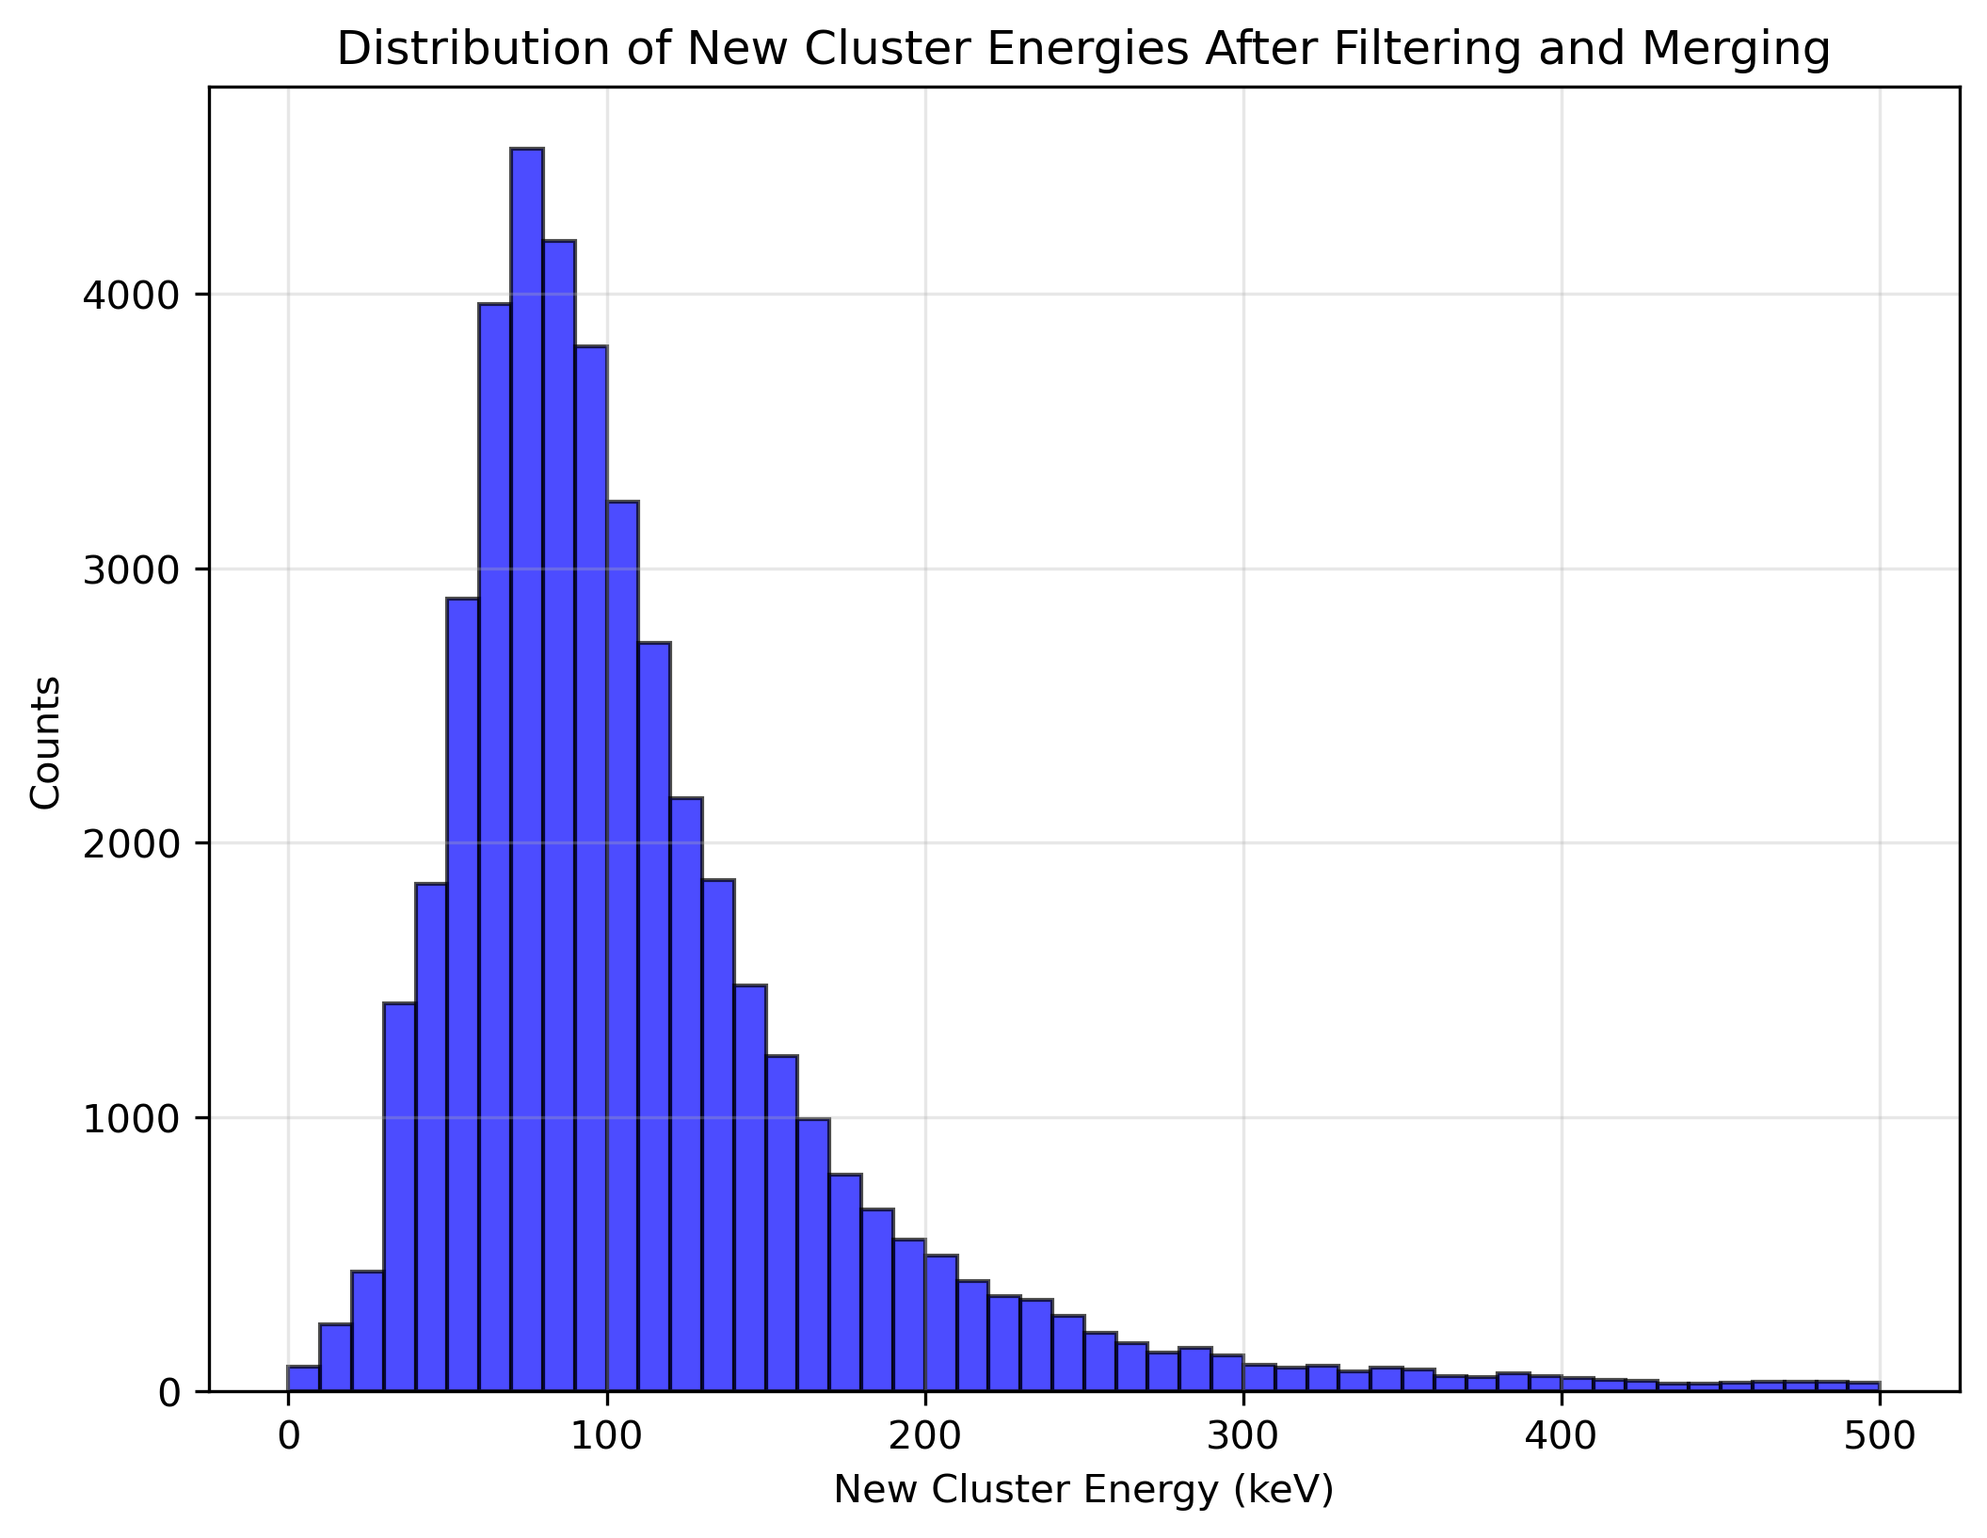
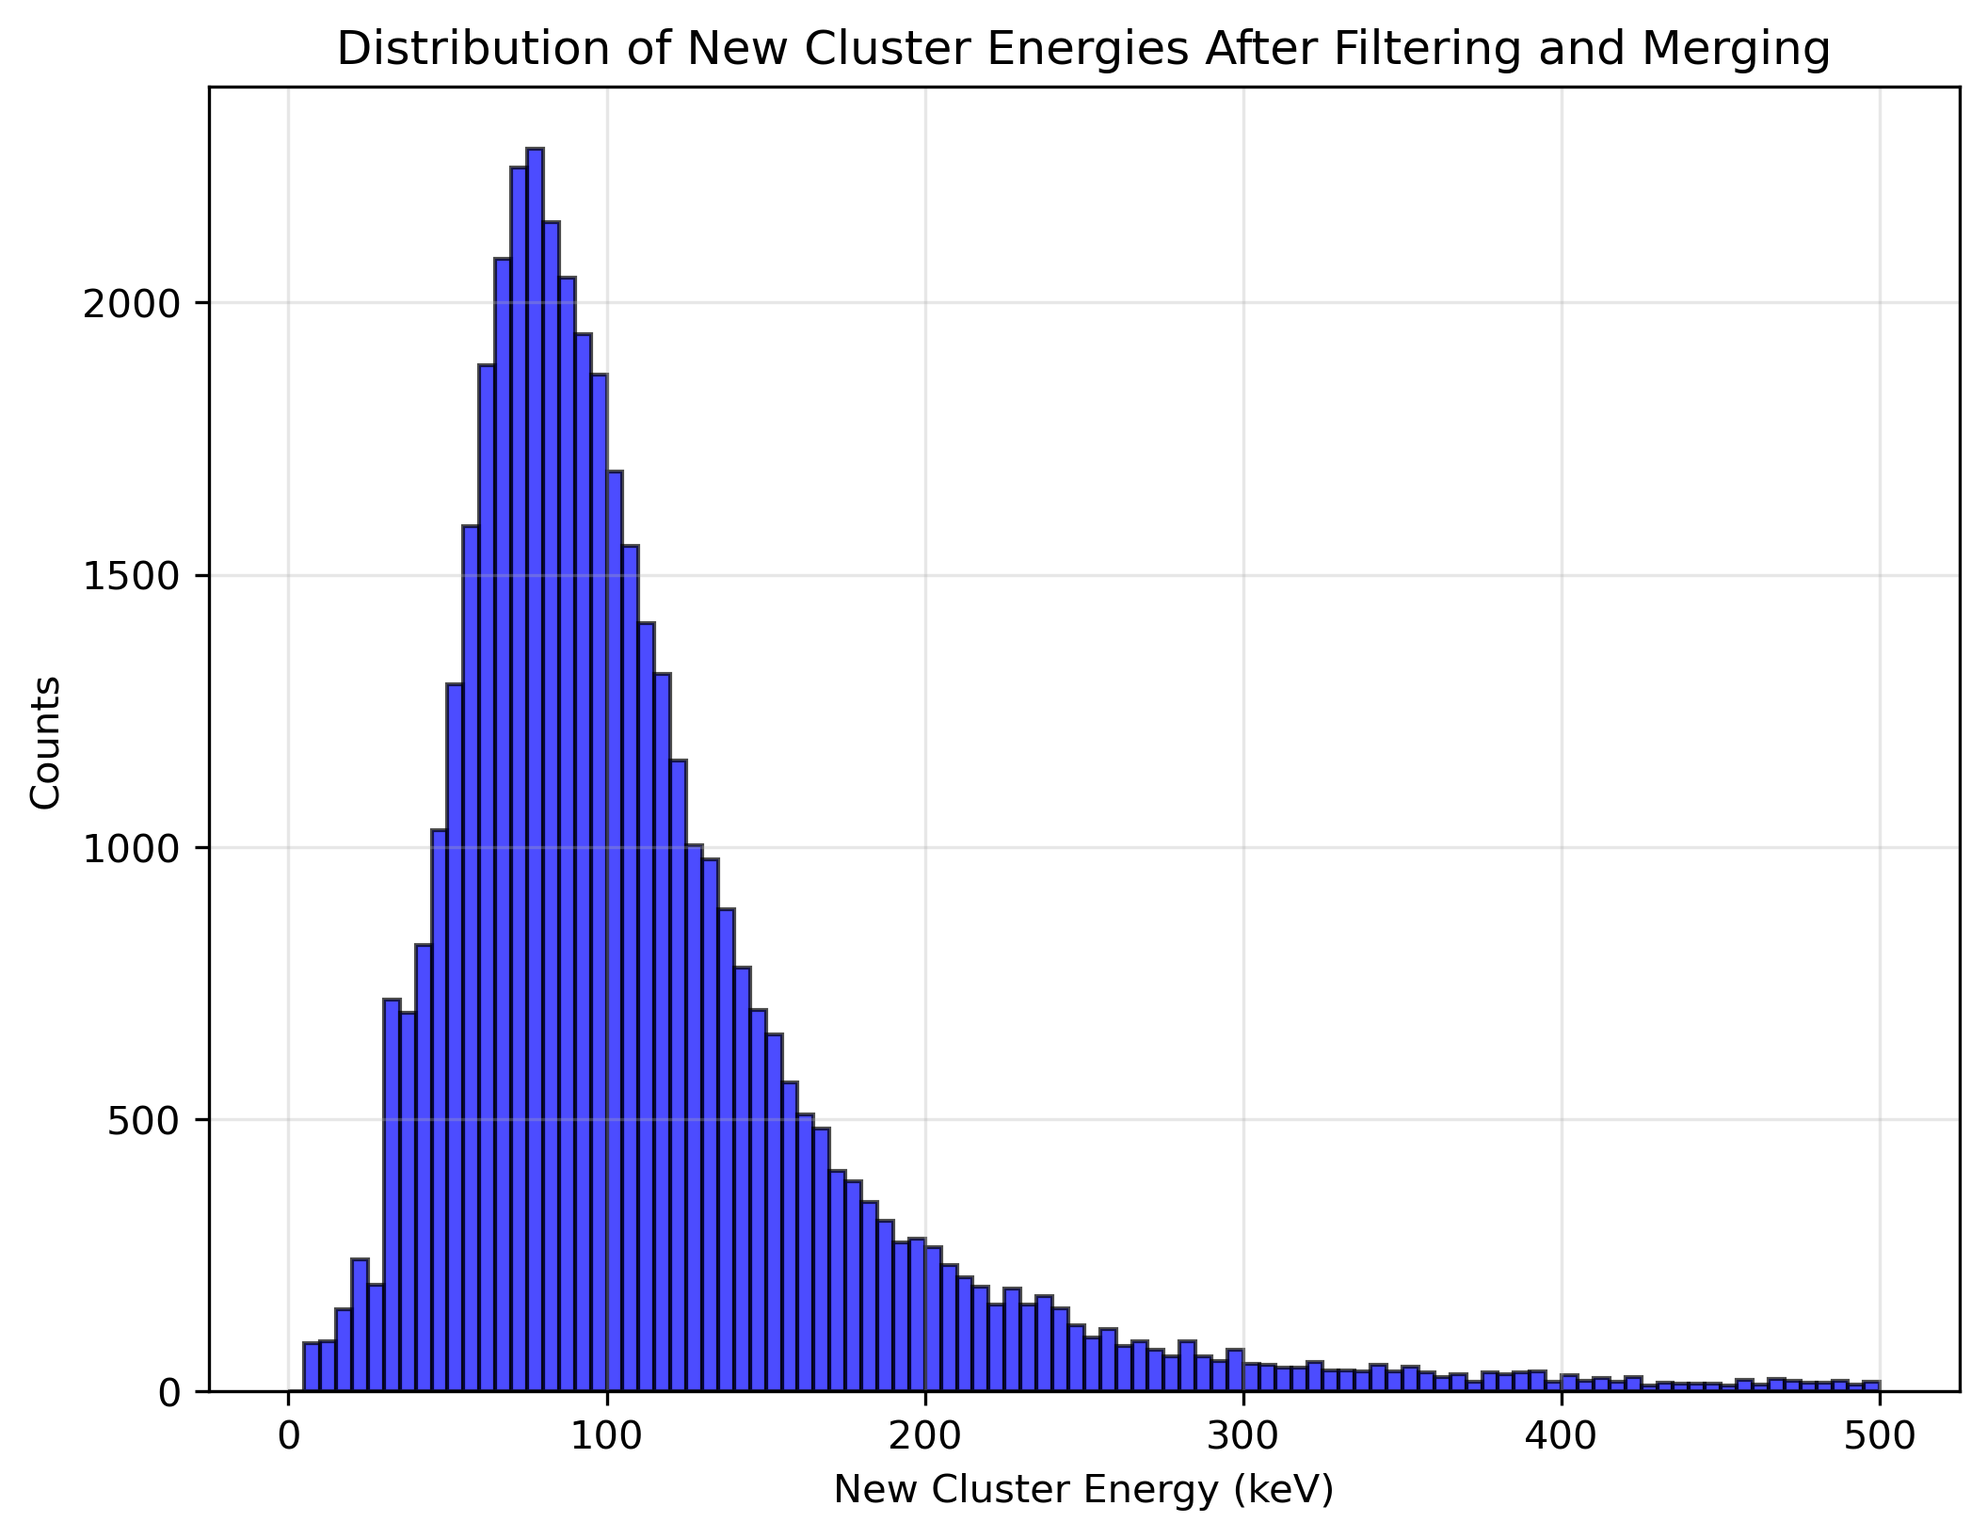
Update new_remove_flu__and_save_root.py, new judgement and can save new root files.

diff --git a/new_remove_flu__and_save_root.py b/new_remove_flu__and_save_root.py
@@ -1,0 +1,277 @@
+import uproot
+import awkward as ak
+import numpy as np
+import matplotlib.pyplot as plt
+
+def analyze_and_save_root(input_root_file, output_root_file):
+    # 读取ROOT树
+    with uproot.open(input_root_file) as file:
+        tree = file["Tree"]
+        
+        # 提取所有数据（jagged arrays for clusters/cells, regular for events）
+        event_id = tree["event_id"].array()
+        event_time = tree["event_time"].array()
+        
+        # Cluster级
+        cluster_index = tree["cluster_index"].array()
+        cluster_n_cells = tree["cluster_n_cells"].array()
+        cluster_energy = tree["cluster_energy"].array()
+        cluster_weighted_x = tree["cluster_weighted_x"].array()
+        cluster_weighted_y = tree["cluster_weighted_y"].array()
+        cluster_avg_t = tree["cluster_avg_t"].array()
+        
+        # Cell级
+        cell_x = tree["cell_x"].array()
+        cell_y = tree["cell_y"].array()
+        cell_E = tree["cell_E"].array()
+        cell_T = tree["cell_T"].array()
+        cell_cluster_id = tree["cell_cluster_id"].array()
+        
+        # 事件总数
+        n_events = len(event_id)
+        print(f"总事件数: {n_events}")
+        
+        discarded_events = 0  # 抛弃事件计数
+        merged_clusters = 0   # 合并次数
+        new_energies = []     # 收集新的cluster_energy
+        
+        # 新数据存储：每个event的列表
+        new_event_ids = []
+        new_event_times = []
+        new_cluster_indices = []
+        new_cluster_n_cells = []
+        new_cluster_energies = []
+        new_cluster_weighted_xs = []
+        new_cluster_weighted_ys = []
+        new_cluster_avg_ts = []
+        new_cell_xs = []
+        new_cell_ys = []
+        new_cell_Es = []
+        new_cell_Ts = []
+        new_cell_cluster_ids = []
+        
+        for i in range(n_events):
+            n_clusters = len(cluster_energy[i])
+            # 修正：event_id 和 event_time 是标量
+            curr_event_id = int(event_id[i])
+            curr_event_time = float(event_time[i])
+            
+            # 提取当前event的cell数据（扁平numpy）
+            curr_cell_x = ak.to_numpy(cell_x[i])
+            curr_cell_y = ak.to_numpy(cell_y[i])
+            curr_cell_E = ak.to_numpy(cell_E[i])
+            curr_cell_T = ak.to_numpy(cell_T[i])
+            curr_cell_cluster_id = ak.to_numpy(cell_cluster_id[i]).copy()  # copy 以允许修改
+            
+            if n_clusters == 1:
+                # 单cluster事件：检查抛弃条件
+                if cluster_n_cells[i][0] <= 2 and cluster_energy[i][0] < 30:
+                    discarded_events += 1
+                    continue
+                else:
+                    # 保留该event的所有数据
+                    new_event_ids.append(curr_event_id)
+                    new_event_times.append(curr_event_time)
+                    new_cluster_indices.append(ak.to_numpy(cluster_index[i]))
+                    new_cluster_n_cells.append(ak.to_numpy(cluster_n_cells[i]))
+                    new_cluster_energies.append(ak.to_numpy(cluster_energy[i]))
+                    new_cluster_weighted_xs.append(ak.to_numpy(cluster_weighted_x[i]))
+                    new_cluster_weighted_ys.append(ak.to_numpy(cluster_weighted_y[i]))
+                    new_cluster_avg_ts.append(ak.to_numpy(cluster_avg_t[i]))
+                    new_cell_xs.append(curr_cell_x)
+                    new_cell_ys.append(curr_cell_y)
+                    new_cell_Es.append(curr_cell_E)
+                    new_cell_Ts.append(curr_cell_T)
+                    new_cell_cluster_ids.append(ak.to_numpy(cell_cluster_id[i]))  # 未修改
+                    new_energies.extend(ak.to_numpy(cluster_energy[i]))
+            elif n_clusters >= 2:
+                # 多cluster事件：提取为NumPy
+                energies_np = ak.to_numpy(cluster_energy[i])
+                n_cells_np = ak.to_numpy(cluster_n_cells[i])
+                index_np = ak.to_numpy(cluster_index[i])
+                x_np = ak.to_numpy(cluster_weighted_x[i])
+                y_np = ak.to_numpy(cluster_weighted_y[i])
+                t_np = ak.to_numpy(cluster_avg_t[i])
+                
+                n_clusters = len(energies_np)
+                
+                # 找出所有低能量小cluster：energy <30 且 n_cells <=2
+                low_condition = (energies_np < 30) & (n_cells_np <= 2)
+                low_idxs = np.where(low_condition)[0]
+                
+                to_delete = []
+                if len(low_idxs) > 0:
+                    # 目标cluster：不满足低能量条件的
+                    target_mask = ~low_condition
+                    target_idxs = np.where(target_mask)[0]
+                    if len(target_idxs) > 0:
+                        # 对于每个低能量cluster，尝试合并到最近目标
+                        merged_count = 0
+                        for low_idx in low_idxs:
+                            low_energy = energies_np[low_idx]
+                            low_n_cells = n_cells_np[low_idx]
+                            low_x = x_np[low_idx]
+                            low_y = y_np[low_idx]
+                            low_t = t_np[low_idx]
+                            low_id = index_np[low_idx]
+                            
+                            # 收集低能量cluster的cells
+                            low_cells_mask = (curr_cell_cluster_id == low_id)
+                            low_cell_xs = curr_cell_x[low_cells_mask]
+                            low_cell_ys = curr_cell_y[low_cells_mask]
+                            low_cell_Es = curr_cell_E[low_cells_mask]
+                            low_cell_Ts = curr_cell_T[low_cells_mask]
+                            
+                            # 其他目标cluster的差异
+                            other_t = t_np[target_idxs]
+                            other_x = x_np[target_idxs]
+                            other_y = y_np[target_idxs]
+                            other_indices = index_np[target_idxs]
+                            
+                            dt_diffs = np.abs(other_t - low_t)
+                            dx_diffs = np.abs(other_x - low_x)
+                            dy_diffs = np.abs(other_y - low_y)
+                            
+                            # 候选掩码
+                            candidate_mask = (dx_diffs <= 10) & (dy_diffs <= 10)
+                            candidates_rel_mask = candidate_mask
+                            candidates = target_idxs[candidate_mask]
+                            
+                            if len(candidates) > 0:
+                                # 选dt最小的
+                                filtered_dt = dt_diffs[candidate_mask]
+                                best_rel_idx = np.argmin(filtered_dt)
+                                best_idx = candidates[best_rel_idx]
+                                best_target_index = other_indices[best_rel_idx]
+                                
+                                # 找到目标cluster的cells（当前状态，包括之前合并）
+                                target_cells_mask = (curr_cell_cluster_id == best_target_index)
+                                target_cell_xs = curr_cell_x[target_cells_mask]
+                                target_cell_ys = curr_cell_y[target_cells_mask]
+                                target_cell_Es = curr_cell_E[target_cells_mask]
+                                target_cell_Ts = curr_cell_T[target_cells_mask]
+                                
+                                # 合并cells
+                                merged_cell_xs = np.concatenate([target_cell_xs, low_cell_xs])
+                                merged_cell_ys = np.concatenate([target_cell_ys, low_cell_ys])
+                                merged_cell_Es = np.concatenate([target_cell_Es, low_cell_Es])
+                                merged_cell_Ts = np.concatenate([target_cell_Ts, low_cell_Ts])
+                                
+                                # 重新计算目标cluster属性
+                                total_e = np.sum(merged_cell_Es)
+                                if len(merged_cell_Es) > 0:
+                                    new_weighted_x = np.sum(merged_cell_xs * merged_cell_Es) / total_e
+                                    new_weighted_y = np.sum(merged_cell_ys * merged_cell_Es) / total_e
+                                    new_avg_t = np.mean(merged_cell_Ts)
+                                    new_n_cells = len(merged_cell_Es)
+                                else:
+                                    new_weighted_x, new_weighted_y, new_avg_t, new_n_cells = low_x, low_y, low_t, low_n_cells
+                                
+                                # 更新目标cluster在np中的值
+                                energies_np[best_idx] = total_e
+                                n_cells_np[best_idx] = new_n_cells
+                                x_np[best_idx] = new_weighted_x
+                                y_np[best_idx] = new_weighted_y
+                                t_np[best_idx] = new_avg_t
+                                
+                                # 更新cell_cluster_id：低能量cells改为目标index（old id）
+                                curr_cell_cluster_id[low_cells_mask] = best_target_index
+                                
+                                to_delete.append(low_idx)
+                                merged_count += 1
+                        
+                        merged_clusters += merged_count
+                
+                # 删除已合并的low_idxs（排序逆序删除）
+                if len(to_delete) > 0:
+                    to_delete = sorted(to_delete, reverse=True)
+                    for del_idx in to_delete:
+                        energies_np = np.delete(energies_np, del_idx)
+                        n_cells_np = np.delete(n_cells_np, del_idx)
+                        # 不删除index_np，因为我们需要old values for mapping
+                        x_np = np.delete(x_np, del_idx)
+                        y_np = np.delete(y_np, del_idx)
+                        t_np = np.delete(t_np, del_idx)
+                    
+                    # Remap: 先收集surviving old ids（基于原始index_np和to_delete）
+                    old_index_np = index_np.copy()  # 原始，未删除
+                    surviving_old_ids_pre = [old_index_np[j] for j in range(n_clusters) if j not in to_delete]
+                    surviving_old_ids = sorted(surviving_old_ids_pre)
+                    old_to_new = {old_id: new_id for new_id, old_id in enumerate(surviving_old_ids)}
+                    
+                    # 新index
+                    new_index_np = np.arange(len(energies_np))
+                    
+                    # Remap cell_cluster_id
+                    for old_id, new_id in old_to_new.items():
+                        mask = (curr_cell_cluster_id == old_id)
+                        if np.any(mask):
+                            curr_cell_cluster_id[mask] = new_id
+                else:
+                    # 无删除
+                    new_index_np = index_np.copy()
+                
+                # 如果剩余clusters >0
+                if len(energies_np) > 0:
+                    new_event_ids.append(curr_event_id)
+                    new_event_times.append(curr_event_time)
+                    new_cluster_indices.append(new_index_np)
+                    new_cluster_n_cells.append(n_cells_np)
+                    new_cluster_energies.append(energies_np)
+                    new_cluster_weighted_xs.append(x_np)
+                    new_cluster_weighted_ys.append(y_np)
+                    new_cluster_avg_ts.append(t_np)
+                    new_cell_xs.append(curr_cell_x)
+                    new_cell_ys.append(curr_cell_y)
+                    new_cell_Es.append(curr_cell_E)
+                    new_cell_Ts.append(curr_cell_T)
+                    new_cell_cluster_ids.append(curr_cell_cluster_id)
+                    new_energies.extend(energies_np)
+                else:
+                    discarded_events += 1
+        
+        print(f"抛弃事件数: {discarded_events}")
+        print(f"合并cluster次数: {merged_clusters}")
+        new_energies = np.array(new_energies)
+        
+        # 写入新ROOT文件
+        with uproot.recreate(output_root_file) as new_file:
+            new_file["Tree"] = {
+                "event_id": np.array(new_event_ids, dtype=np.int32),
+                "event_time": np.array(new_event_times, dtype=np.float64),
+                
+                # Cluster信息
+                "cluster_index": ak.Array(new_cluster_indices),
+                "cluster_n_cells": ak.Array(new_cluster_n_cells),
+                "cluster_energy": ak.Array(new_cluster_energies),  # 更新后的energy
+                "cluster_weighted_x": ak.Array(new_cluster_weighted_xs),
+                "cluster_weighted_y": ak.Array(new_cluster_weighted_ys),
+                "cluster_avg_t": ak.Array(new_cluster_avg_ts),
+                
+                # Cell信息（cell_cluster_id已更新）
+                "cell_x": ak.Array(new_cell_xs),
+                "cell_y": ak.Array(new_cell_ys),
+                "cell_E": ak.Array(new_cell_Es),
+                "cell_T": ak.Array(new_cell_Ts),
+                "cell_cluster_id": ak.Array(new_cell_cluster_ids),
+            }
+        
+        print(f"新ROOT文件已保存: {output_root_file}")
+        
+        # 绘制分布
+        plt.figure(figsize=(8, 6))
+        plt.hist(new_energies, bins=100, range=(0, 500), alpha=0.7, color='blue', edgecolor='black')
+        plt.xlabel('New Cluster Energy (keV)')
+        plt.ylabel('Counts')
+        plt.title('Distribution of New Cluster Energies After Filtering and Merging')
+        plt.grid(True, alpha=0.3)
+        plt.savefig('mod_new_cluster_energy_distribution.png', dpi=300, bbox_inches='tight')
+        plt.show()
+        
+        print(f"分布图已保存为: mod_new_cluster_energy_distribution.png")
+        print(f"新cluster总数: {len(new_energies)}, 平均能量: {np.mean(new_energies):.2f} keV")
+
+if __name__ == "__main__":
+    input_root = "./TEST-14000-ENERGY.root"  # 输入ROOT文件路径
+    output_root = "./TEST-14000-ENERGY_updated.root"  # 输出ROOT文件路径
+    analyze_and_save_root(input_root, output_root)

diff --git a/analyze_remove_flu.py b/analyze_remove_flu.py
@@ -96,7 +96,7 @@ def analyze_root(root_file):
         
         #plot
         plt.figure(figsize=(8, 6))
-        plt.hist(new_energies, bins=50, range=(0, 500), alpha=0.7, color='blue', edgecolor='black')
+        plt.hist(new_energies, bins=100, range=(0, 500), alpha=0.7, color='blue', edgecolor='black')
         plt.xlabel('New Cluster Energy (keV)')
         plt.ylabel('Counts')
         plt.title('Distribution of New Cluster Energies After Filtering and Merging')

diff --git a/README.md b/README.md
@@ -24,6 +24,7 @@ conda install -c conda-forge numpy matplotlib uproot awkward
 - `convert_clog_to_root.py` : transfer .clog into .root files.
 - `draw_under40_plot.py` : Draw plots.
 - `analyze_remove_flu.py` : Do analysis(remove Fluorescence), and draw new plots.
+- `new_remove_flu__and_save_root.py` : Modified remove Fluorescence(in case more than 1 Fluorescence clusters in 1 event), draw new plots, and save root files. `analyze_remove_flu.py` pick the minimal cluster_energy<30 and cluster_ncells<=2 cluster as Fluorescence cluster, but `new_remove_flu__and_save_root.py` pick all  cluster_energy<30 and cluster_ncells<=2 clusters as Fluorescence clusters.
 
 ## Notes
 - Large binary files (e.g. `.root`, `.png`, `.clog`) are not tracked by git.
